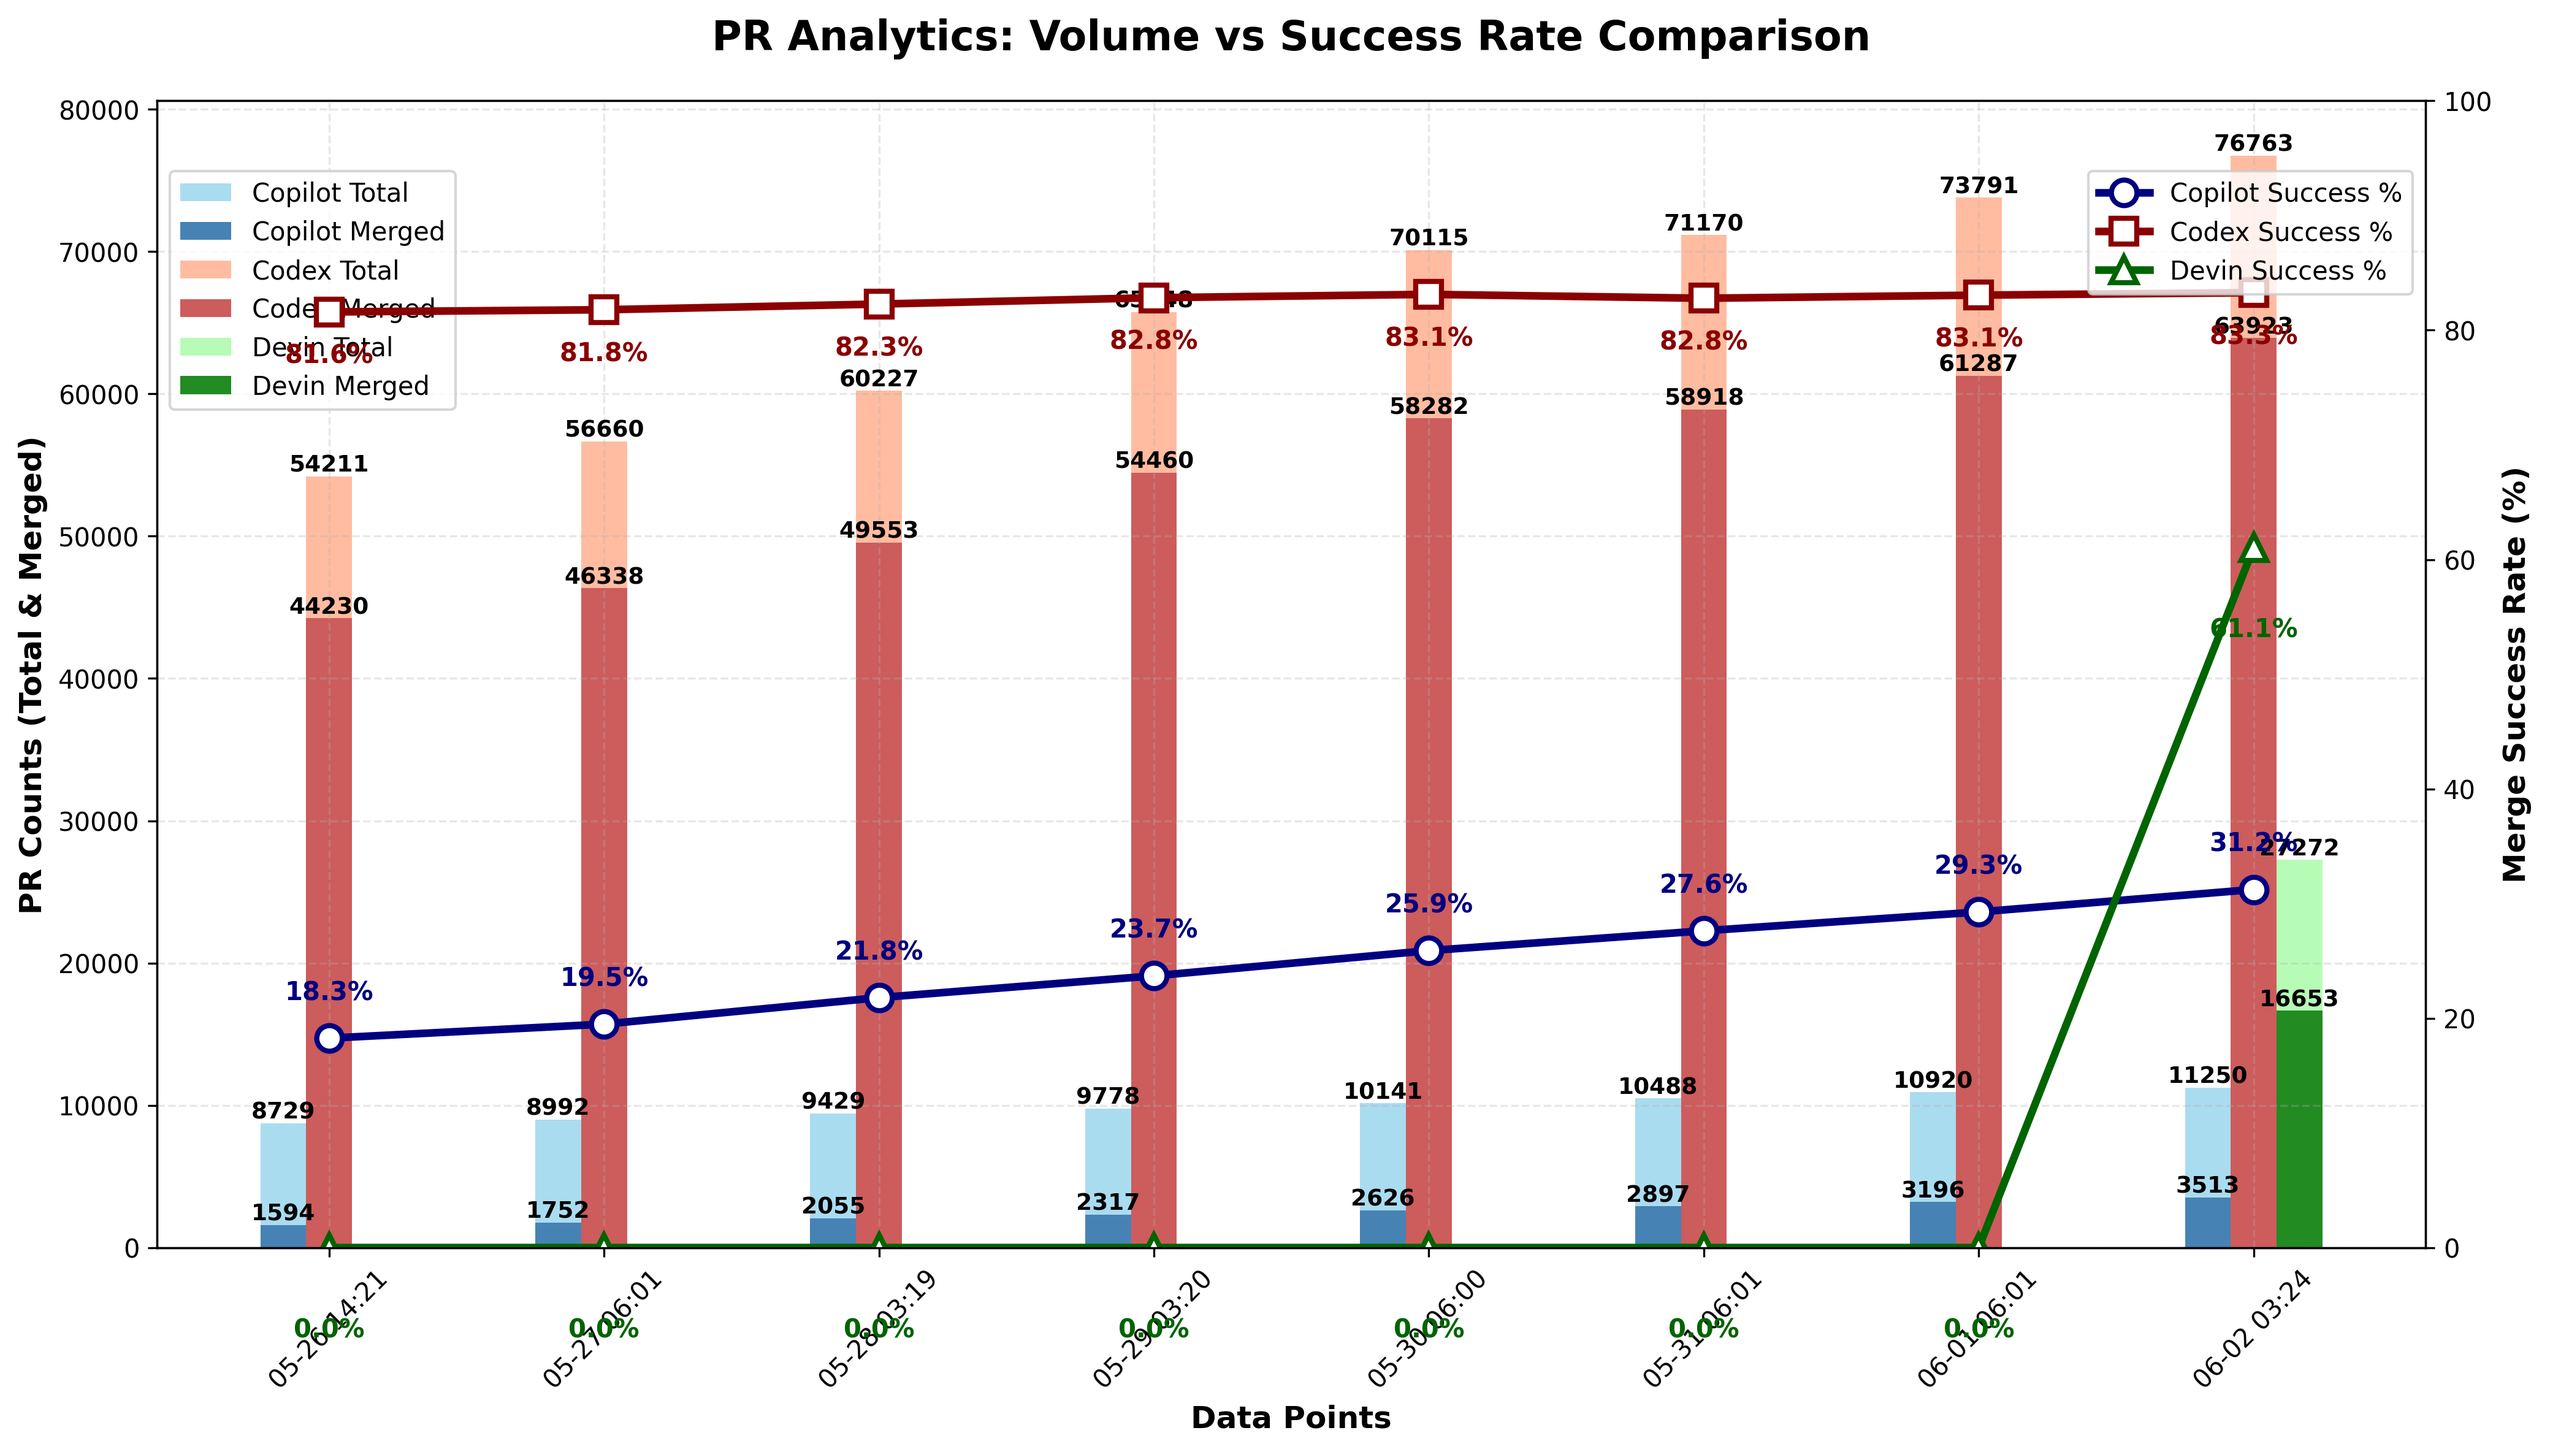
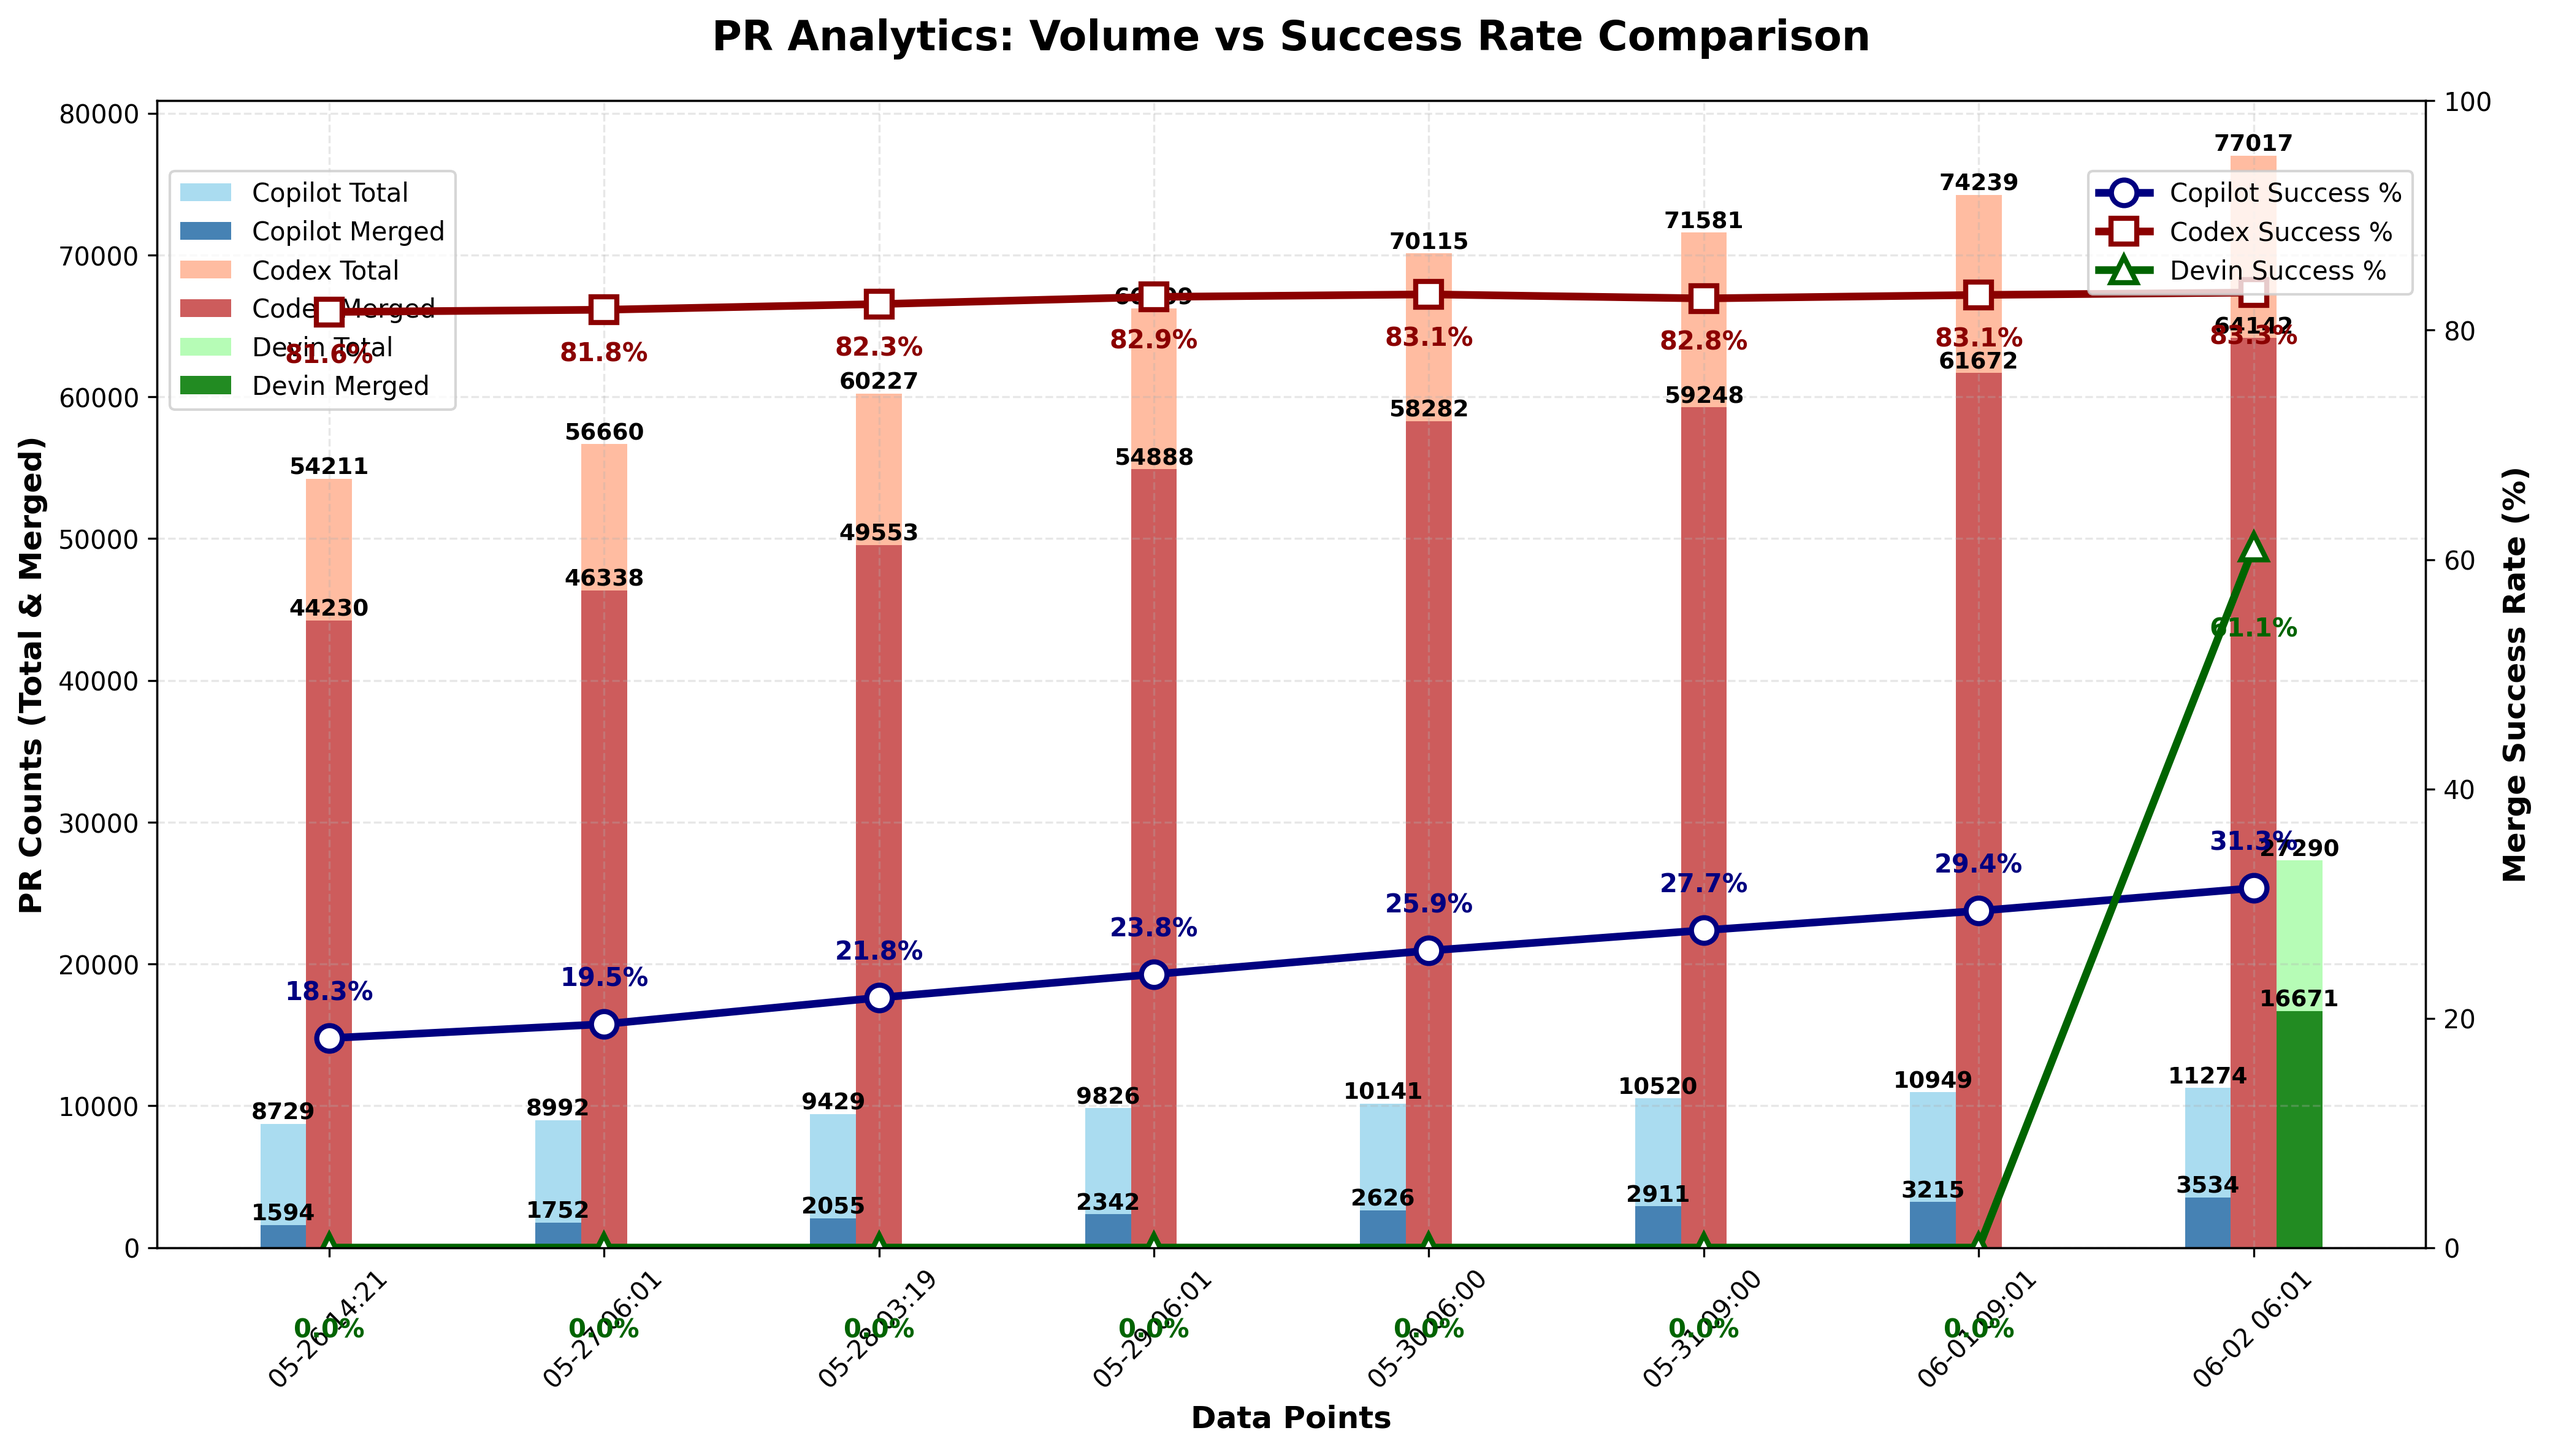
chore: update PR‑approval chart

diff --git a/docs/index.html b/docs/index.html
@@ -46,22 +46,22 @@
                 <tbody>
                     <tr>
                         <td>Copilot</td>
-                        <td>11,250</td>
-                        <td>3,513</td>
-                        <td>31.23%</td>
+                        <td>11,274</td>
+                        <td>3,534</td>
+                        <td>31.35%</td>
                     </tr>
                     <tr>
                         <td>Codex</td>
-                        <td>76,763</td>
-                        <td>63,923</td>
-                        <td>83.27%</td>
+                        <td>77,017</td>
+                        <td>64,142</td>
+                        <td>83.28%</td>
                     </tr>
                 </tbody>
             </table>
         </section>
 
         <footer>
-            <p>Last updated: <span id="last-updated">June 02, 2025 03:24 UTC</span></p>
+            <p>Last updated: <span id="last-updated">June 02, 2025 06:01 UTC</span></p>
             <p><a href="https://github.com/aavetis/ai-pr-watcher">View on GitHub</a></p>
         </footer>
     </div>

diff --git a/README.md b/README.md
@@ -19,6 +19,6 @@ Explore the GitHub search queries used:
 
 | Project | Total PRs | Merged PRs | Merge Rate |
 | ------- | --------- | ---------- | ---------- |
-| Copilot | 11,250 | 3,513 | 31.23% |
-| Codex   | 76,763 | 63,923 | 83.27% |
-| Devin   | 27,272 | 16,653 | 61.06% |
+| Copilot | 11,274 | 3,534 | 31.35% |
+| Codex   | 77,017 | 64,142 | 83.28% |
+| Devin   | 27,290 | 16,671 | 61.09% |
